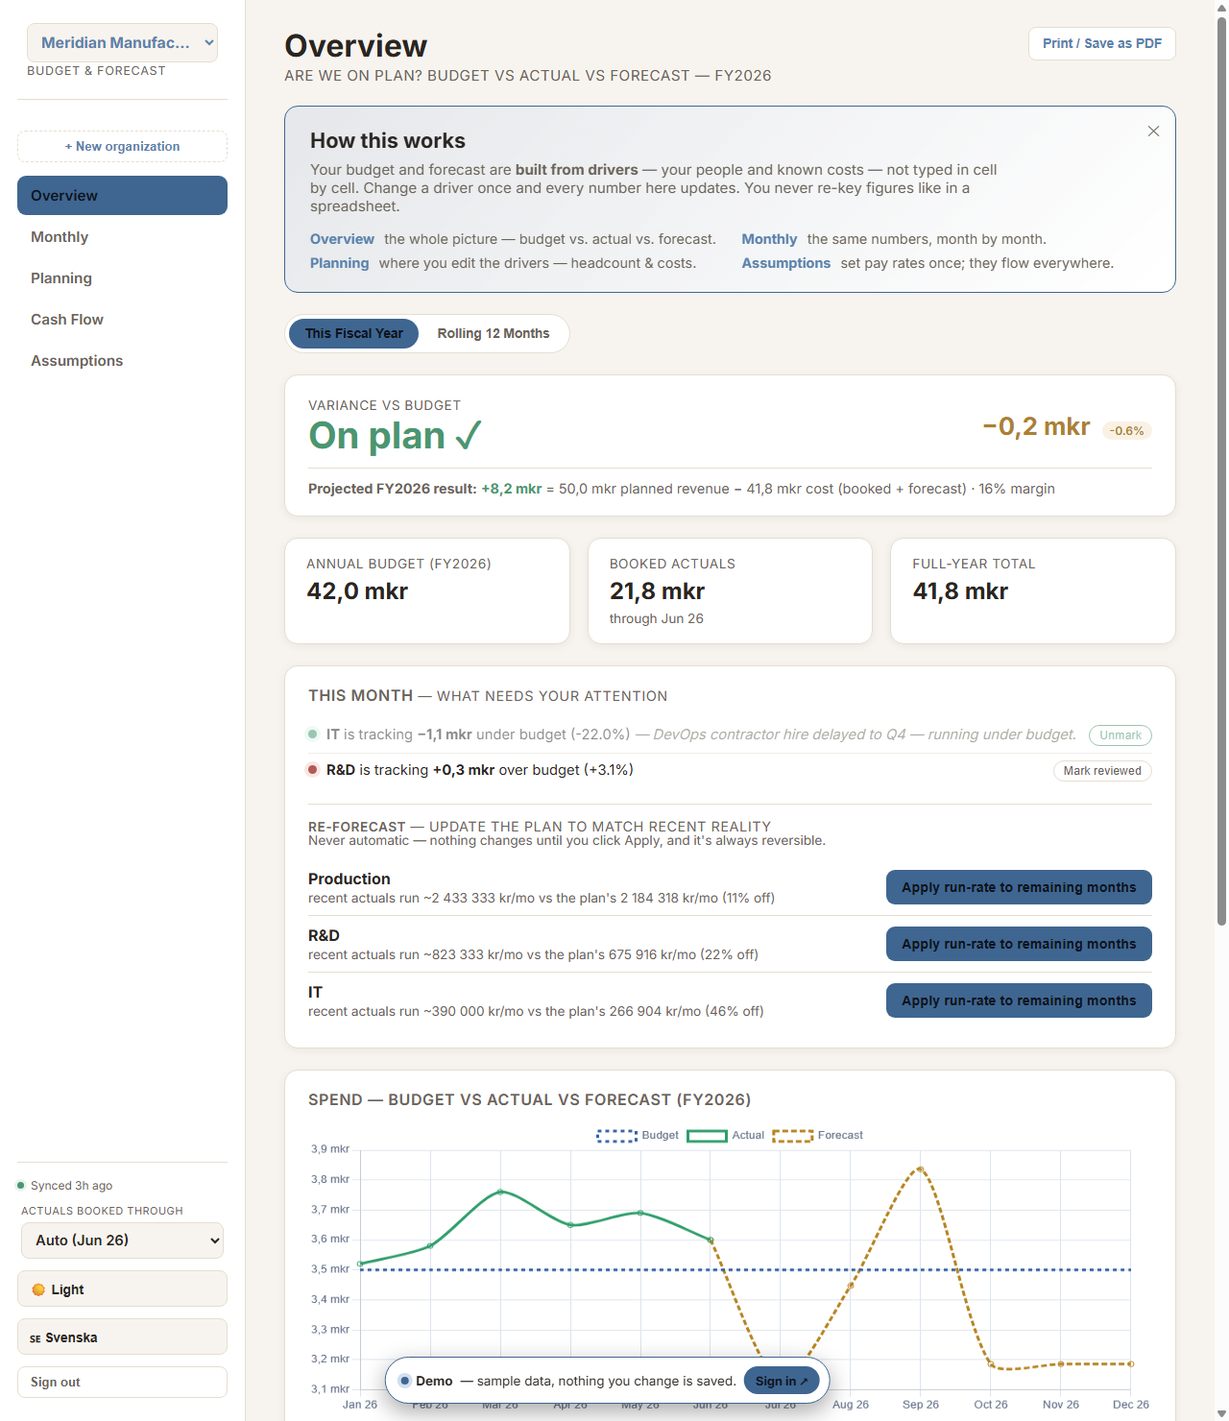
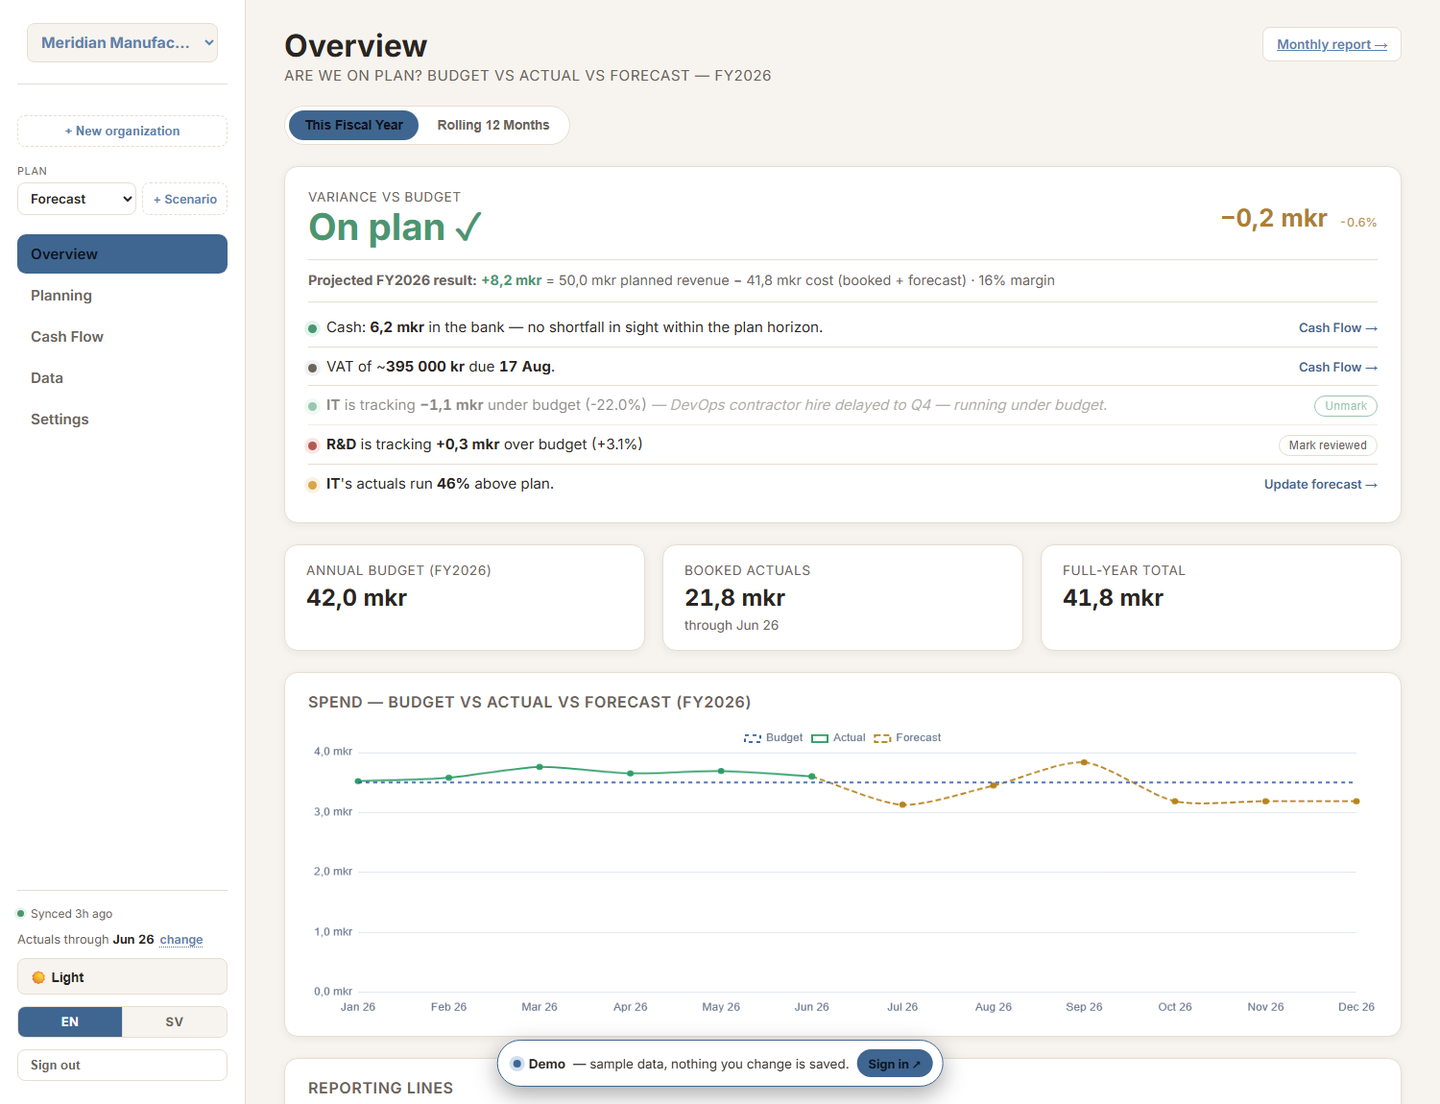
Landing page: repositioned from portfolio piece to product
The site called itself a "demonstration project", offered "View the source"
as its second CTA, and showed screenshots of screens that no longer exist
(the Assumptions page, the old Signals panel). Anyone we point at it would
have read "here is something I built", not "here is something that solves
your problem".

Positioning now matches the strategy: budget, forecast and cash for Swedish
SMEs of 10-50 people, booked figures from Fortnox OR any SIE export. The
second CTA is "Book a walkthrough" (mailto) rather than the repo -- the
source link moves to the footer where a curious developer can still find it.

Copy rewritten in both languages where the product had moved on:
  - the loop section described Signals and Re-forecast as separate panels;
    it now describes the brief and the 3% divergence prompt as they work
  - Fortnox framed as one of two on-ramps rather than the only one, with SIE
    import ("the standard every Swedish program exports") given equal weight
    and its tie-out check named as the trust mechanism
  - a new section for the manadsrapport -- the artifact that actually leaves
    the building -- leading on booked-so-far being shown separately from
    forecast, and on the provenance footer
  - "Under the hood" retitled "Built to be trusted with your books"; the
    footer now states the read-only Fortnox posture instead of the tech stack

Screenshots: four new light-theme captures of the current app (Overview with
[…]

diff --git a/i18n.js b/i18n.js
@@ -603,9 +603,9 @@ en: {
   lp_nav_source: "Source",
   lp_nav_demo: "Live demo →",
   lp_brand_sub: "Planning",
-  lp_eyebrow: "Financial planning · demonstration project",
+  lp_eyebrow: "Budget, forecast & cash · for Swedish SMEs",
   lp_hero_h1: "Forecasting that doesn't break when one number changes.",
-  lp_hero_lead: `A multi-tenant financial planning app for growing companies. Every figure is built from <strong>drivers</strong> — your people and known costs — so changing one assumption flows through the whole plan instead of shattering a spreadsheet.`,
+  lp_hero_lead: `Budgeting, forecasting and cash planning for companies of 10–50 people. Every figure is built from <strong>drivers</strong> — your people and your known costs — so changing one assumption flows through the whole plan instead of shattering a spreadsheet. Your booked figures come straight from Fortnox, or from any SIE export.`,
   lp_cta_demo: "Explore the live demo →",
   lp_cta_source: "View the source",
   lp_cta_note: "No sign-up — opens a full sample company you can click through.",
@@ -624,8 +624,8 @@ en: {
   lp_loop_h2: "Not a dashboard. A decision system.",
   lp_loop_sub: `Most tools stop at "here's a number." This one closes the loop back to the plan.`,
   lp_loop_1: `<strong>Data flows in, nightly.</strong> Fortnox syncs automatically — no CSV, no month-end copy-paste.`,
-  lp_loop_2: `<strong>A deviation gets flagged.</strong> Signals surface the lines drifting from budget, with a monthly review ritual so nothing slips through.`,
-  lp_loop_3: `<strong>A fix gets suggested.</strong> When actuals diverge from plan, Re-forecast proposes the new run-rate — never silently.`,
+  lp_loop_2: `<strong>What changed reaches you in words.</strong> The home page is a short brief — cash, the next tax payment, the lines drifting from budget — not a wall of panels to interpret.`,
+  lp_loop_3: `<strong>A fix is offered, never applied behind your back.</strong> When actuals drift from plan by more than 3%, it says so in one sentence and offers to update the remaining months to the real run-rate.`,
   lp_loop_4: `<strong>One click updates the plan.</strong> Apply it and every view recalculates. Change your mind — Revert puts it back exactly as it was.`,
   lp_shot_loop_alt: "Signals flagging a variance and Re-forecast suggesting a one-click, reversible fix",
 
@@ -638,7 +638,7 @@ en: {
 
   lp_fortnox_kicker: "Connected to your books",
   lp_fortnox_h2: "Your real actuals, automatically.",
-  lp_fortnox_p1: `Connect <strong>Fortnox</strong> once. Every sync pulls your booked P&amp;L — revenue, COGS, operating, personnel — straight from the ledger and lands it against your plan. No CSV, no re-keying, no month-end copy-paste.`,
+  lp_fortnox_p1: `On <strong>Fortnox</strong>? Connect once, and every night's sync pulls your booked P&amp;L — revenue, COGS, operating, personnel — straight from the ledger and lands it against your plan. No CSV, no re-keying, no month-end copy-paste.`,
   lp_fortnox_p2: `It reads the whole year in <strong>one call</strong> and <strong>ties out to the öre</strong> against Fortnox's own Resultatrapport — tested at <strong>55,000 vouchers in ~3 seconds</strong>. Any size, any fiscal year, corrections included.`,
   lp_fortnox_p3: `<strong>That's the real difference from a spreadsheet:</strong> the numbers aren't something you maintain — they arrive, correct.`,
   lp_shot_fortnox_alt: "Connected to Fortnox — a full P&L reconciled automatically from booked vouchers",
@@ -648,11 +648,23 @@ en: {
   lp_feat_1_h3: "Driver-based buildup", lp_feat_1_p: "Headcount, one-offs, and run-rate costs roll up from the ground truth, not typed totals.",
   lp_feat_2_h3: "Year budget + rolling 12", lp_feat_2_p: "Plan the fiscal year, then watch a rolling-12-month forecast move as actuals land.",
   lp_feat_3_h3: "What-if scenarios", lp_feat_3_p: "Snapshot the plan's full trajectory, change drivers, and compare alternatives against the live plan, month by month.",
-  lp_feat_4_h3: "Live actuals from Fortnox", lp_feat_4_p: "Connect once — your booked P&L syncs automatically and ties out; every cost centre shows budget vs actual vs forecast.",
-  lp_feat_5_h3: "Board-pack PDF", lp_feat_5_p: "One click produces a clean, print-ready summary with variance commentary.",
+  lp_feat_4_h3: "Works with your accounting system", lp_feat_4_p: "Fortnox syncs nightly. Everyone else imports a SIE file — the standard every Swedish program exports — and we check it ties out to your own reported result before importing anything.",
+  lp_feat_5_h3: "Månadsrapport as PDF", lp_feat_5_p: "One click produces a report your bank or board can read on its own — including where each figure came from and what is still forecast.",
   lp_feat_6_h3: "Multi-tenant", lp_feat_6_p: "Many companies, one app — each isolated at the database, switchable in a click.",
 
-  lp_hood_h2: "Under the hood",
+  lp_nav_contact: "Contact",
+  lp_shot_brief_alt: "The brief: cash, the next tax payment, and the lines drifting from budget — in sentences",
+  lp_cta_talk: "Book a walkthrough",
+  lp_final_sub: "The demo is the real app running on a sample company — click anything. When you want it pointed at your own books, get in touch and we'll set it up together.",
+  lp_report_kicker: "The output",
+  lp_report_h2: "A månadsrapport you can send as-is.",
+  lp_report_p1: `One click produces a clean monthly report: the verdict, the result per line with <strong>booked-so-far shown separately from forecast</strong>, your own commentary, cash and runway, and headcount.`,
+  lp_report_p2: `It ends by stating <strong>where every figure came from</strong> — what is closed, what is forecast from your drivers, and that nothing was typed over. That is the part a bank or a board actually needs.`,
+  lp_report_p3: "Swedish or English, straight to PDF.",
+  lp_shot_planning_alt: "Planning: revenue plan, then each reporting line built from roles, headcount and running costs",
+  lp_shot_report_alt: "The monthly report: verdict, result per reporting line, commentary, cash and headcount",
+  lp_shot_data_alt: "The Data page: a connected Fortnox company reconciled automatically, plus SIE file import",
+  lp_hood_h2: "Built to be trusted with your books",
   lp_hood_sub: "Boring, legible, and secure by default — on purpose.",
   lp_hood_1_h: "Row-level security, not UI trust", lp_hood_1_p: "Every query is tenant-scoped in Postgres itself. The public API key is safe in the browser precisely because the database enforces isolation.",
   lp_hood_2_h: "Roles that mean something", lp_hood_2_p: "Owner / editor / viewer are enforced server-side. Creating an org is an atomic function, so a client can't add itself to data it doesn't own.",
@@ -660,10 +672,10 @@ en: {
   lp_hood_4_h: "Static, no build step", lp_hood_4_p: "Plain HTML/JS on a CDN-backed Postgres. It deploys as flat files and there's nothing to break in a pipeline.",
   lp_hood_note: "Supabase (Postgres · Auth · RLS) · vanilla JavaScript · Chart.js · deployed on GitHub Pages.",
 
-  lp_final_h2: "See it for yourself.",
+  lp_final_h2: "See it on your own numbers.",
   lp_final_cta_demo: "Open the live demo →",
   lp_final_cta_source: "Read the code",
-  lp_footer: `A working demonstration project · built with Supabase + vanilla JS · <a href="https://github.com/Gavuzzi/finance-budget-forecast" target="_blank" rel="noopener">source on GitHub</a>`,
+  lp_footer: `Built in Sweden · our Fortnox access is read-only — we never write to your books · <a href="https://github.com/Gavuzzi/finance-budget-forecast" target="_blank" rel="noopener">source on GitHub</a>`,
 },
 sv: {
   nav_overview: "Översikt", nav_planning: "Planering",
@@ -1217,9 +1229,9 @@ sv: {
   lp_nav_source: "Källkod",
   lp_nav_demo: "Live-demo →",
   lp_brand_sub: "Planering",
-  lp_eyebrow: "Budget & prognos · demonstrationsprojekt",
+  lp_eyebrow: "Budget, prognos & likviditet · för svenska SME",
   lp_hero_h1: "Prognoser som inte går sönder när en enda siffra ändras.",
-  lp_hero_lead: `En budget- och prognosapp för växande företag, med stöd för flera bolag. Varje siffra byggs upp från <strong>drivare</strong> — dina medarbetare och kända kostnader — så att en ändrad förutsättning slår igenom hela planen istället för att förstöra ett kalkylblad.`,
+  lp_hero_lead: `Budget, prognos och likviditetsplanering för bolag med 10–50 anställda. Varje siffra byggs upp från <strong>drivare</strong> — era medarbetare och kända kostnader — så att en ändrad förutsättning slår igenom hela planen istället för att förstöra ett kalkylblad. Ert bokförda utfall hämtas direkt från Fortnox, eller från vilken SIE-fil som helst.`,
   lp_cta_demo: "Utforska live-demon →",
   lp_cta_source: "Visa källkoden",
   lp_cta_note: "Ingen registrering krävs — öppnar ett komplett exempelbolag du kan klicka runt i.",
@@ -1238,8 +1250,8 @@ sv: {
   lp_loop_h2: "Ingen instrumentpanel. Ett beslutssystem.",
   lp_loop_sub: `De flesta verktyg stannar vid "här är en siffra". Det här sluter loopen tillbaka till planen.`,
   lp_loop_1: `<strong>Data flödar in, varje natt.</strong> Fortnox synkas automatiskt — ingen CSV, inget copy-paste vid månadsskiftet.`,
-  lp_loop_2: `<strong>En avvikelse flaggas.</strong> Signaler lyfter fram linjerna som glider från budget, med en månadsvis granskningsrutin så att inget glider igenom.`,
-  lp_loop_3: `<strong>En åtgärd föreslås.</strong> När utfallet avviker från planen föreslår Ny prognos den nya körtakten — aldrig i det tysta.`,
+  lp_loop_2: `<strong>Det som ändrats når er i ord.</strong> Startsidan är en kort sammanfattning — likviditet, nästa skatteinbetalning, linjerna som glider från budget — inte en vägg av paneler att tolka.`,
+  lp_loop_3: `<strong>En åtgärd erbjuds, aldrig bakom ryggen på er.</strong> När utfallet avviker mer än 3 % från planen sägs det i en mening, med ett erbjudande att uppdatera återstående månader till den verkliga körtakten.`,
   lp_loop_4: `<strong>Ett klick uppdaterar planen.</strong> Använd förslaget så räknas varje vy om. Ångra dig — Återställ lägger tillbaka exakt som det var.`,
   lp_shot_loop_alt: "Signaler som flaggar en avvikelse och Ny prognos som föreslår en återställningsbar åtgärd med ett klick",
 
@@ -1252,7 +1264,7 @@ sv: {
 
   lp_fortnox_kicker: "Kopplad till din bokföring",
   lp_fortnox_h2: "Ditt verkliga utfall, automatiskt.",
-  lp_fortnox_p1: `Koppla <strong>Fortnox</strong> en gång. Varje synk hämtar ditt bokförda resultat — intäkter, kostnad sålda varor, drift, personal — direkt från huvudboken och ställer det mot din plan. Ingen CSV, ingen omskrivning, inget copy-paste vid månadsskiftet.`,
+  lp_fortnox_p1: `Har ni <strong>Fortnox</strong>? Koppla en gång, så hämtar varje nattlig synk ert bokförda resultat — intäkter, kostnad sålda varor, drift, personal — direkt från huvudboken och ställer det mot planen. Ingen CSV, ingen omskrivning, inget copy-paste vid månadsskiftet.`,
   lp_fortnox_p2: `Den läser hela året i <strong>ett anrop</strong> och <strong>stämmer av till öret</strong> mot Fortnox egen resultatrapport — testat på <strong>55 000 verifikat på ~3 sekunder</strong>. Vilken storlek som helst, vilket räkenskapsår som helst, rättelser inkluderade.`,
   lp_fortnox_p3: `<strong>Det är den verkliga skillnaden mot ett kalkylblad:</strong> siffrorna är inget du underhåller — de anländer, korrekta.`,
   lp_shot_fortnox_alt: "Kopplad till Fortnox — ett komplett resultat avstämt automatiskt från bokförda verifikat",
@@ -1262,11 +1274,23 @@ sv: {
   lp_feat_1_h3: "Drivarbaserad uppbyggnad", lp_feat_1_p: "Bemanning, engångskostnader och löpande kostnader byggs upp från grunddata, inte inskrivna totaler.",
   lp_feat_2_h3: "Årsbudget + rullande 12", lp_feat_2_p: "Planera räkenskapsåret och se sedan en rullande 12-månadersprognos röra sig i takt med att utfall bokförs.",
   lp_feat_3_h3: "What-if-scenarier", lp_feat_3_p: "Ta en ögonblicksbild av planens hela förlopp, ändra drivare och jämför alternativ mot den aktuella planen, månad för månad.",
-  lp_feat_4_h3: "Live-utfall från Fortnox", lp_feat_4_p: "Koppla en gång — ditt bokförda resultat synkas automatiskt och stämmer av; varje redovisningslinje visar budget mot utfall mot prognos.",
-  lp_feat_5_h3: "Styrelsepaket som PDF", lp_feat_5_p: "Ett klick ger en ren, utskriftsklar sammanställning med avvikelsekommentarer.",
+  lp_feat_4_h3: "Fungerar med ert bokföringsprogram", lp_feat_4_p: "Fortnox synkas varje natt. Övriga importerar en SIE-fil — standarden alla svenska program exporterar — och vi kontrollerar att den stämmer av mot ert eget redovisade resultat innan något importeras.",
+  lp_feat_5_h3: "Månadsrapport som PDF", lp_feat_5_p: "Ett klick ger en rapport som banken eller styrelsen kan läsa på egen hand — inklusive var varje siffra kommer ifrån och vad som fortfarande är prognos.",
   lp_feat_6_h3: "Flera bolag", lp_feat_6_p: "Många företag, en app — varje bolag isolerat på databasnivå, växlingsbart med ett klick.",
 
-  lp_hood_h2: "Under huven",
+  lp_nav_contact: "Kontakt",
+  lp_shot_brief_alt: "Sammanfattningen: likviditet, nästa skatteinbetalning och linjerna som glider från budget — i meningar",
+  lp_cta_talk: "Boka en genomgång",
+  lp_final_sub: "Demon är den riktiga appen som kör på ett exempelbolag — klicka på vad som helst. När ni vill rikta den mot er egen bokföring, hör av er så sätter vi upp det tillsammans.",
+  lp_report_kicker: "Resultatet",
+  lp_report_h2: "En månadsrapport ni kan skicka som den är.",
+  lp_report_p1: `Ett klick ger en ren månadsrapport: utfallsbedömningen, resultatet per linje med <strong>bokfört hittills separerat från prognos</strong>, era egna kommentarer, likviditet och uthållighet samt bemanning.`,
+  lp_report_p2: `Den avslutas med <strong>var varje siffra kommer ifrån</strong> — vad som är stängt, vad som prognostiseras från era drivare, och att inget är manuellt överskrivet. Det är den delen en bank eller styrelse faktiskt behöver.`,
+  lp_report_p3: "Svenska eller engelska, direkt till PDF.",
+  lp_shot_planning_alt: "Planering: intäktsplan, sedan varje redovisningslinje uppbyggd av roller, bemanning och löpande kostnader",
+  lp_shot_report_alt: "Månadsrapporten: utfallsbedömning, resultat per redovisningslinje, kommentarer, likviditet och bemanning",
+  lp_shot_data_alt: "Datasidan: ett anslutet Fortnox-bolag som stäms av automatiskt, plus import av SIE-fil",
+  lp_hood_h2: "Byggt för att anförtros er bokföring",
   lp_hood_sub: "Tråkigt, läsbart och säkert som standard — med avsikt.",
   lp_hood_1_h: "Radnivåsäkerhet, inte förtroende för gränssnittet", lp_hood_1_p: "Varje fråga är avgränsad per bolag i själva Postgres. Den publika API-nyckeln är säker i webbläsaren just för att databasen upprätthåller isoleringen.",
   lp_hood_2_h: "Roller som betyder något", lp_hood_2_p: "Ägare / redigerare / läsare upprätthålls på serversidan. Att skapa ett bolag är en atomär funktion, så en klient kan inte lägga till sig själv i data den inte äger.",
@@ -1274,10 +1298,10 @@ sv: {
   lp_hood_4_h: "Statisk, inget byggsteg", lp_hood_4_p: "Vanlig HTML/JS mot en CDN-baserad Postgres. Den driftsätts som platta filer och det finns inget att gå sönder i en pipeline.",
   lp_hood_note: "Supabase (Postgres · Auth · RLS) · vanilla JavaScript · Chart.js · driftsatt på GitHub Pages.",
 
-  lp_final_h2: "Se själv.",
+  lp_final_h2: "Se det på era egna siffror.",
   lp_final_cta_demo: "Öppna live-demon →",
   lp_final_cta_source: "Läs koden",
-  lp_footer: `Ett fungerande demonstrationsprojekt · byggt med Supabase + vanilla JS · <a href="https://github.com/Gavuzzi/finance-budget-forecast" target="_blank" rel="noopener">källkod på GitHub</a>`,
+  lp_footer: `Byggt i Sverige · vår Fortnox-åtkomst är skrivskyddad — vi skriver aldrig till er bokföring · <a href="https://github.com/Gavuzzi/finance-budget-forecast" target="_blank" rel="noopener">källkod på GitHub</a>`,
 },
 };
 

diff --git a/index.html b/index.html
@@ -3,8 +3,8 @@
 <head>
 <meta charset="UTF-8">
 <meta name="viewport" content="width=device-width, initial-scale=1.0">
-<title>FP&A Planning — a driver-based financial planning app</title>
-<meta name="description" content="A working demonstration of a multi-tenant financial planning app: budget, forecast, and track spend built from drivers instead of spreadsheet cells.">
+<title>FP&A Planning — budget, forecast and cash for Swedish SMEs</title>
+<meta name="description" content="Driver-based budgeting, forecasting and cash planning for Swedish small and medium companies. Reads your booked figures straight from Fortnox or any SIE export, and produces a board-ready monthly report.">
 <link rel="preconnect" href="https://fonts.googleapis.com">
 <link href="https://fonts.googleapis.com/css2?family=Fraunces:wght@600;700;900&family=Inter:wght@400;500;600;700&display=swap" rel="stylesheet">
 <link rel="stylesheet" href="style.css">
@@ -114,7 +114,7 @@
       </div>
       <div class="lp-nav-links">
         <a href="app.html" data-i18n="lp_nav_signin">Sign in</a>
-        <a href="https://github.com/Gavuzzi/finance-budget-forecast" target="_blank" rel="noopener" data-i18n="lp_nav_source">Source</a>
+        <a href="mailto:felixroos@gmail.com?subject=FP%26A%20Planning" data-i18n="lp_nav_contact">Contact</a>
         <a class="primary" href="app.html?preview" data-i18n="lp_nav_demo">Live demo →</a>
         <button class="lang-toggle" id="langToggle" type="button" data-i18n="lang_toggle">🇸🇪 Svenska</button>
       </div>
@@ -127,7 +127,7 @@
       <p class="lead" data-i18n-html="lp_hero_lead">A multi-tenant financial planning app for growing companies. Every figure is built from <strong>drivers</strong> — your people and known costs — so changing one assumption flows through the whole plan instead of shattering a spreadsheet.</p>
       <div class="lp-cta">
         <a class="btn btn-primary" href="app.html?preview" data-i18n="lp_cta_demo">Explore the live demo →</a>
-        <a class="btn btn-ghost" href="https://github.com/Gavuzzi/finance-budget-forecast" target="_blank" rel="noopener" data-i18n="lp_cta_source">View the source</a>
+        <a class="btn btn-ghost" href="mailto:felixroos@gmail.com?subject=FP%26A%20Planning%20—%20walkthrough" data-i18n="lp_cta_talk">Book a walkthrough</a>
       </div>
       <p class="lp-cta-note" data-i18n="lp_cta_note">No sign-up — opens a full sample company you can click through.</p>
 
@@ -175,7 +175,7 @@
       </div>
       <div class="shot">
         <div class="shot-bar"><span></span><span></span><span></span></div>
-        <img src="assets/screen-loop.png" data-i18n-alt="lp_shot_loop_alt" alt="Signals flagging a variance and Re-forecast suggesting a one-click, reversible fix">
+        <img src="assets/screen-brief.png" data-i18n-alt="lp_shot_brief_alt" alt="The brief: cash, the next tax payment, and the lines drifting from budget — in sentences">
       </div>
     </section>
 
@@ -190,7 +190,22 @@
       </div>
       <div class="shot">
         <div class="shot-bar"><span></span><span></span><span></span></div>
-        <img src="assets/screen-assumptions.png" data-i18n-alt="lp_shot_assumptions_alt" alt="The rate engine: assumptions and derived loaded cost per role">
+        <img src="assets/screen-planning.png" data-i18n-alt="lp_shot_planning_alt" alt="Planning: revenue plan, then each reporting line built from roles, headcount and running costs">
+      </div>
+    </section>
+
+    <!-- The report: the artifact that leaves the building -->
+    <section class="split">
+      <div>
+        <div class="kicker" data-i18n="lp_report_kicker">The output</div>
+        <h2 data-i18n="lp_report_h2">A månadsrapport you can send as-is.</h2>
+        <p data-i18n-html="lp_report_p1">One click produces a clean monthly report: the verdict, the result per line with <strong>booked-so-far shown separately from forecast</strong>, your own commentary, cash and runway, and headcount.</p>
+        <p data-i18n-html="lp_report_p2">It ends by stating <strong>where every figure came from</strong> — what is closed, what is forecast from your drivers, and that nothing was typed over. That is the part a bank or a board actually needs.</p>
+        <p data-i18n="lp_report_p3">Swedish or English, straight to PDF.</p>
+      </div>
+      <div class="shot">
+        <div class="shot-bar"><span></span><span></span><span></span></div>
+        <img src="assets/screen-report.png" data-i18n-alt="lp_shot_report_alt" alt="The monthly report: verdict, result per reporting line, commentary, cash and headcount">
       </div>
     </section>
 
@@ -205,7 +220,7 @@
       </div>
       <div class="shot">
         <div class="shot-bar"><span></span><span></span><span></span></div>
-        <img src="assets/screen-fortnox.png" data-i18n-alt="lp_shot_fortnox_alt" alt="Connected to Fortnox — a full P&amp;L reconciled automatically from booked vouchers">
+        <img src="assets/screen-data.png" data-i18n-alt="lp_shot_data_alt" alt="The Data page: a connected Fortnox company reconciled automatically, plus SIE file import">
       </div>
     </section>
 
@@ -253,9 +268,10 @@
     <!-- Final CTA -->
     <section class="lp-final">
       <h2 class="lp-h2" data-i18n="lp_final_h2">See it for yourself.</h2>
+      <p class="lp-sub" data-i18n="lp_final_sub">The demo is the real app running on a sample company — click anything. When you want it pointed at your own books, get in touch and we'll set it up together.</p>
       <div class="lp-cta">
         <a class="btn btn-primary" href="app.html?preview" data-i18n="lp_final_cta_demo">Open the live demo →</a>
-        <a class="btn btn-ghost" href="https://github.com/Gavuzzi/finance-budget-forecast" target="_blank" rel="noopener" data-i18n="lp_final_cta_source">Read the code</a>
+        <a class="btn btn-ghost" href="mailto:felixroos@gmail.com?subject=FP%26A%20Planning%20—%20walkthrough" data-i18n="lp_cta_talk">Book a walkthrough</a>
       </div>
     </section>
   </div>
